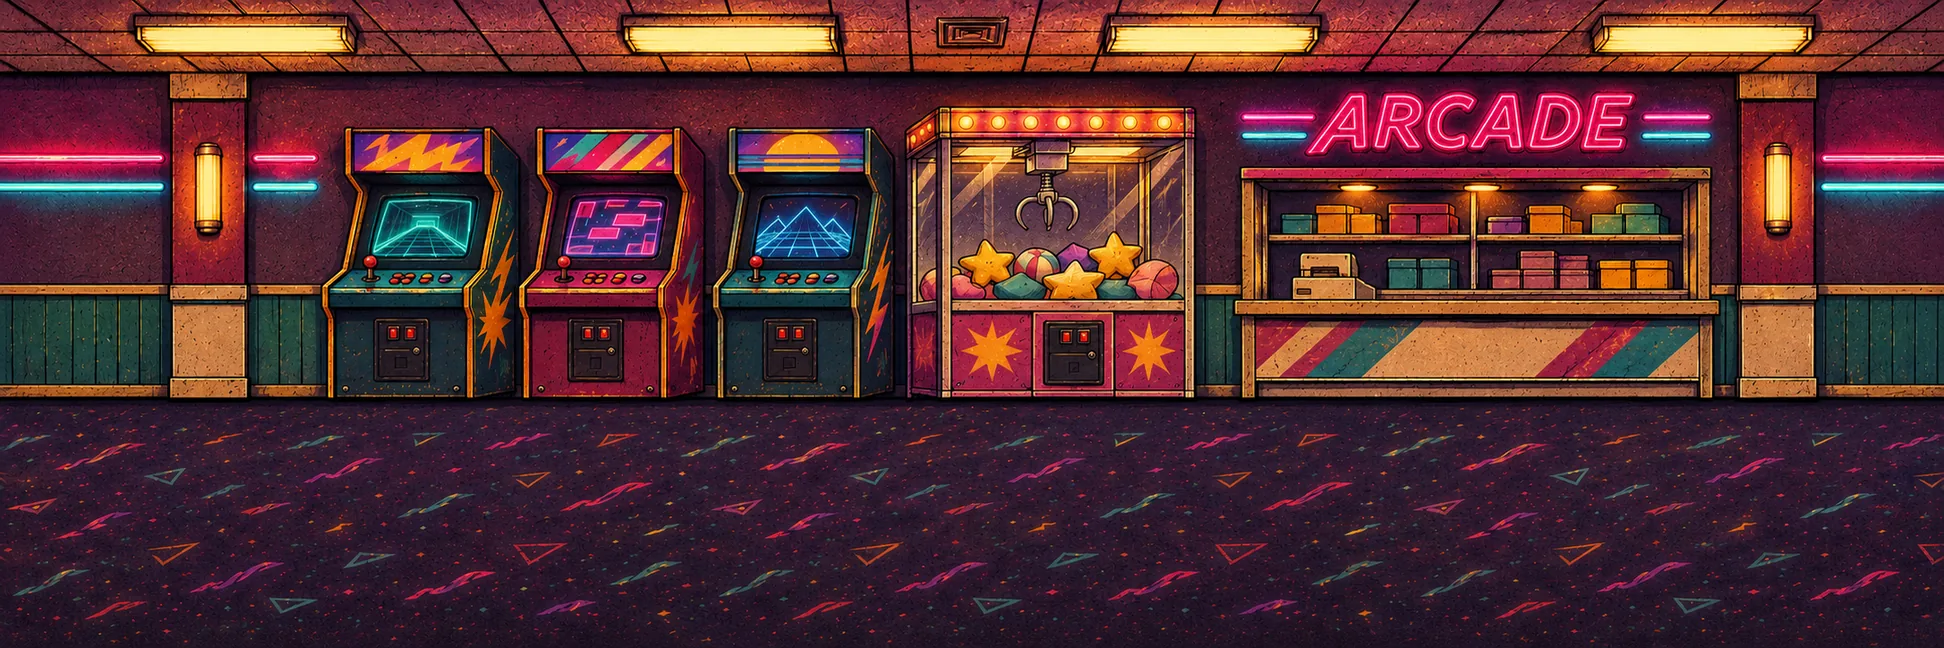
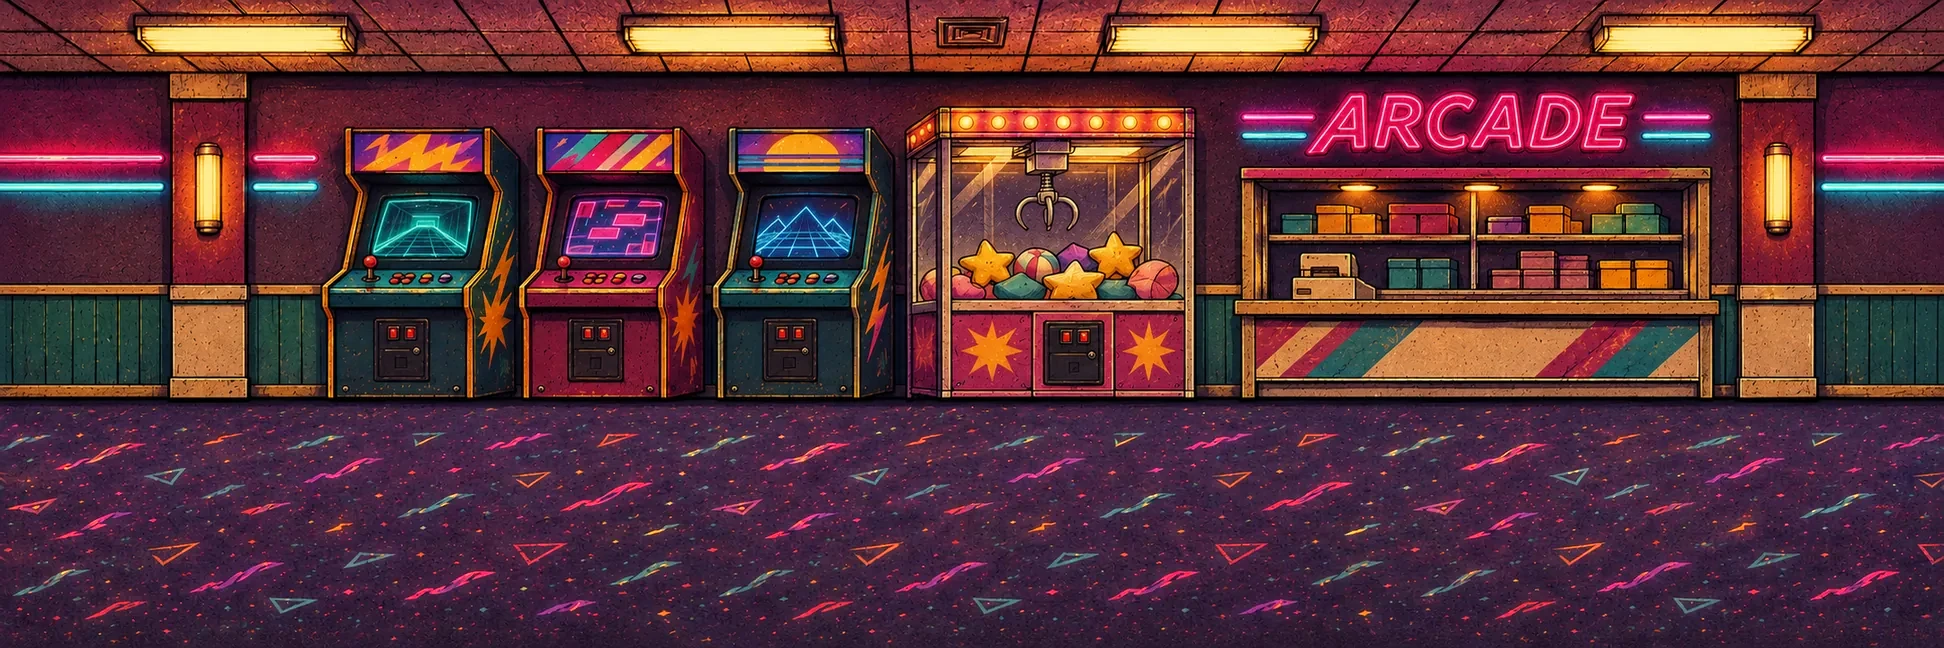
Tone backdrop floors toward their neighbours; dim the locker room
On each stage every area's floor moves halfway (in brightness ratio) toward the stage's average floor,
eased in at the 62% floor line, gains capped at x0.70-x1.45. The darkest floors (TV studio, bowling
arcade carpet, suburb street) come up and the glaring ones (bowling lanes, rink, mall, roof, crater
hull) come down. The water park locker room, by far the brightest painting, is dimmed by 16% overall.
tools/tone_bg.py is one-shot: running it again tones the paintings again. Art version 2026.11.04-2.

Claude-Session: https://claude.ai/code/session_01F6d7yiNU11ZJhcT1A4j6AT

diff --git a/index.html b/index.html
@@ -228,7 +228,7 @@ kbd{font-family:var(--pixel);font-size:9px;color:#1c0b07;background:var(--cream)
   </div>
 </div>
 
-<script src="art/manifest.js?v=2026.11.04-1"></script>
+<script src="art/manifest.js?v=2026.11.04-2"></script>
 <script src="game-core.js?v=2026.11.03-5"></script>
 <script>
 (()=>{
@@ -1365,7 +1365,7 @@ function update(){
 const ART=globalThis.LF_ART||{};
 const SPR={};
 // Bump ART_V whenever art files are replaced under the same names, so browsers fetch the new pictures.
-const ART_V='2026.11.04-1',AV=u=>u+'?v='+ART_V;
+const ART_V='2026.11.04-2',AV=u=>u+'?v='+ART_V;
 /* ---------- picture loading ----------
    Everything used to be requested at once, so on a phone the heroes could take seconds to appear while 400 files
    fought for the line, and a file that failed stayed on its drawn stand-in until a reload. Now pictures go through one

diff --git a/tools/tone_bg.py b/tools/tone_bg.py
@@ -1,0 +1,42 @@
+#!/usr/bin/env python3
+"""Tone stage backdrops so neighbouring areas sit together.  ONE-SHOT: running it again tones the paintings again.
+
+    python3 tools/tone_bg.py [--dry]
+
+1. water-lockers (by far the brightest painting) is dimmed as a whole to sit with the rest.
+2. On each stage, every area's floor (below the 62% floor line, row 402 of 648) is moved halfway, in brightness
+   ratio, toward the stage's average floor brightness, so walking from one area into the next doesn't jump from a
+   pitch-dark floor to a glaring one. The change eases in over 12 rows at the floor line so no edge appears.
+Gains are capped (x0.70 to x1.45) so no floor loses its own character.
+"""
+import sys, os, numpy as np
+from PIL import Image
+
+ROOT = os.path.dirname(os.path.dirname(os.path.abspath(__file__)))
+S = [['suburb','mall','lot'],['school-hall','school-gym','school-field'],['camp-cabins','camp-lake','camp-woods'],
+     ['rink-snack','rink-floor','rink-dj'],['drivein-stand','drivein-cars','drivein-screen'],['bowl-lanes','bowl-arcade','bowl-bar'],
+     ['video-shelves','video-dock','video-office'],['water-wave','water-slides','water-lockers'],['tv-news','tv-studio','tv-roof'],
+     ['crater-woods','crater-hull','crater-core']]
+WHOLE = {'water-lockers': .84}
+FLOOR, RAMP, PULL, LO, HI = 402, 12, .5, .70, 1.45
+Y = np.array([.299, .587, .114])
+
+def load(k): return np.asarray(Image.open(f'{ROOT}/art/bg-{k}.webp').convert('RGB')).astype(float)
+
+def main(dry):
+    for st in S:
+        im = {k: load(k) * WHOLE.get(k, 1) for k in st}
+        fl = {k: (a[FLOOR:] @ Y).mean() for k, a in im.items()}
+        tgt = np.exp(np.mean([np.log(v) for v in fl.values()]))
+        for k, a in im.items():
+            g = float(np.clip((tgt / fl[k]) ** PULL, LO, HI))
+            H = a.shape[0]; rows = np.ones(H)
+            r = np.clip((np.arange(H) - (FLOOR - RAMP / 2)) / RAMP, 0, 1); r = r * r * (3 - 2 * r)
+            rows = 1 + (g - 1) * r
+            out = (a * rows[:, None, None]).clip(0, 255)
+            print(f'{k:15s} whole x{WHOLE.get(k,1):.2f}  floor {fl[k]/WHOLE.get(k,1):6.1f} -> {(out[FLOOR+RAMP:] @ Y).mean():6.1f}  (x{g:.2f})')
+            if not dry:
+                Image.fromarray(out.astype(np.uint8)).save(f'{ROOT}/art/bg-{k}.webp', 'WEBP', quality=90, method=6)
+
+if __name__ == '__main__':
+    main('--dry' in sys.argv)
